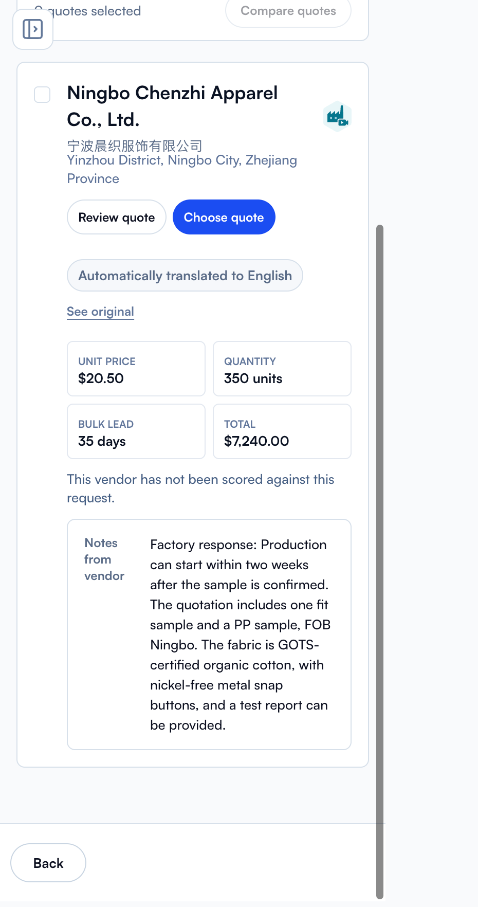
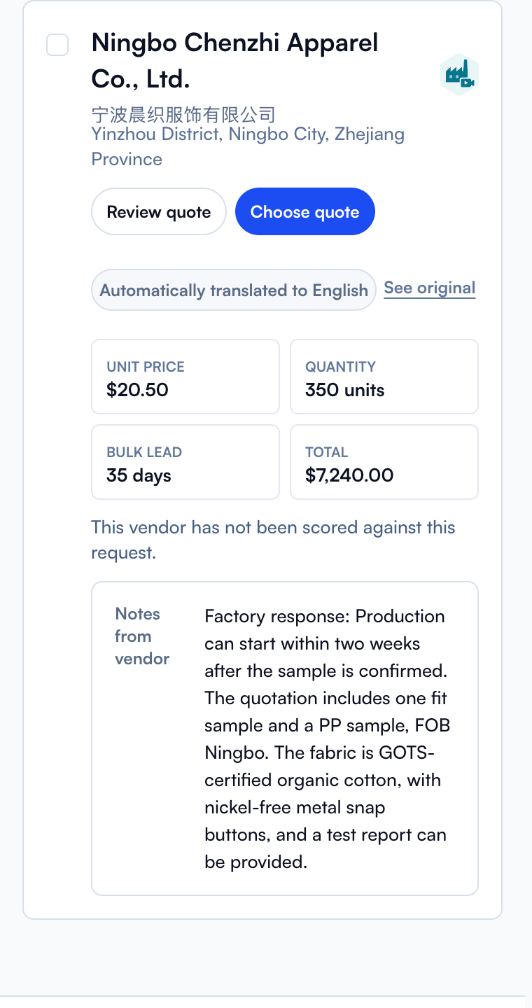
Translation label: one line at phone width, even on the vendor page
- At 480px and below the label's side padding is 5px and the gap to
  "See original" 5px, so both fit on one line in the narrowest card (quote
  compare, 277px at 375). The label keeps 12px inside cards whose own span
  rule sized it to 13px.
- The vendor page's label, stacked under "Back" below 761px, has the same
  22px above as below; the shell rule that zeroed its bottom margin goes.
- check:translation-label fails if the label, gap and link no longer fit
  that row at 375px, or if the label's 12px is lost.

diff --git a/src/app/profile/profile.css b/src/app/profile/profile.css
@@ -131,9 +131,20 @@
 .brand-profile-redesign.brand-factory-public-profile.is-public-view .factory-profile-shell:has(> .profile-translation-controls:not(:empty)) {
   grid-template-areas: "back" "translation" "hero" "layout";
 }
-.factory-profile-shell > .profile-translation-controls { grid-area: translation; margin-bottom: 0; }
+.factory-profile-shell > .profile-translation-controls { grid-area: translation; }
 .profile-translation-label { padding: 5px 10px; border: 1px solid #d7e0ea; border-radius: 20px; background: #f6f8fb; font-weight: 600; }
 .profile-translation-controls button { padding: 0; border: 0; background: transparent; color: #60769b; font: inherit; font-weight: 600; text-decoration: underline; text-underline-offset: 3px; cursor: pointer; }
+/* Phone width: label and "See original" still on one line in the narrowest card (quote compare, 277px at 375). */
+/* A card's own span rule (quote compare's is 13px) must not resize the label. */
+.profile-translation-controls .profile-translation-label { font-size: 12px; }
+@media (max-width: 480px) {
+  .profile-translation-controls { column-gap: 5px; }
+  .profile-translation-label { padding-inline: 5px; }
+}
 
 .factory-profile-owner-bar.brand-vendor-profile-navigation { flex-direction: column; align-items: flex-start; gap: 16px; border: 0; background: transparent; padding: 0; }
 .brand-vendor-profile-navigation .profile-translation-controls { margin: 0; }
+/* Stacked under "Back" (the design stacks the bar below 761px): the same space above as the page's 22px below. */
+@media (max-width: 760px) {
+  .brand-vendor-profile-navigation .profile-translation-controls { margin-top: 6px; }
+}
